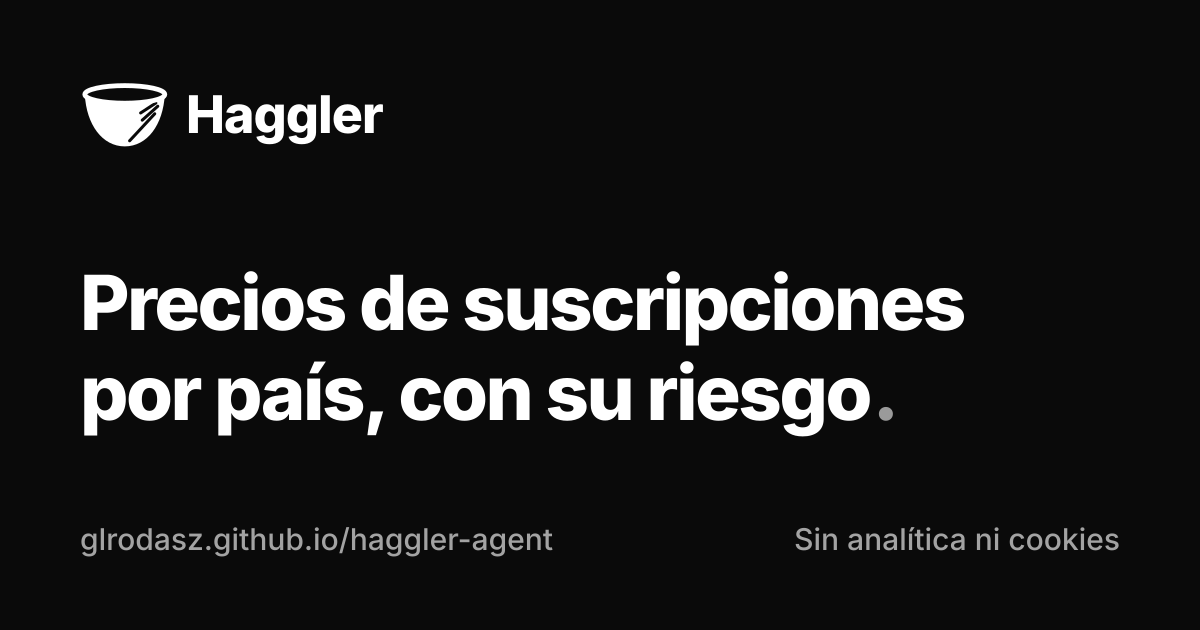
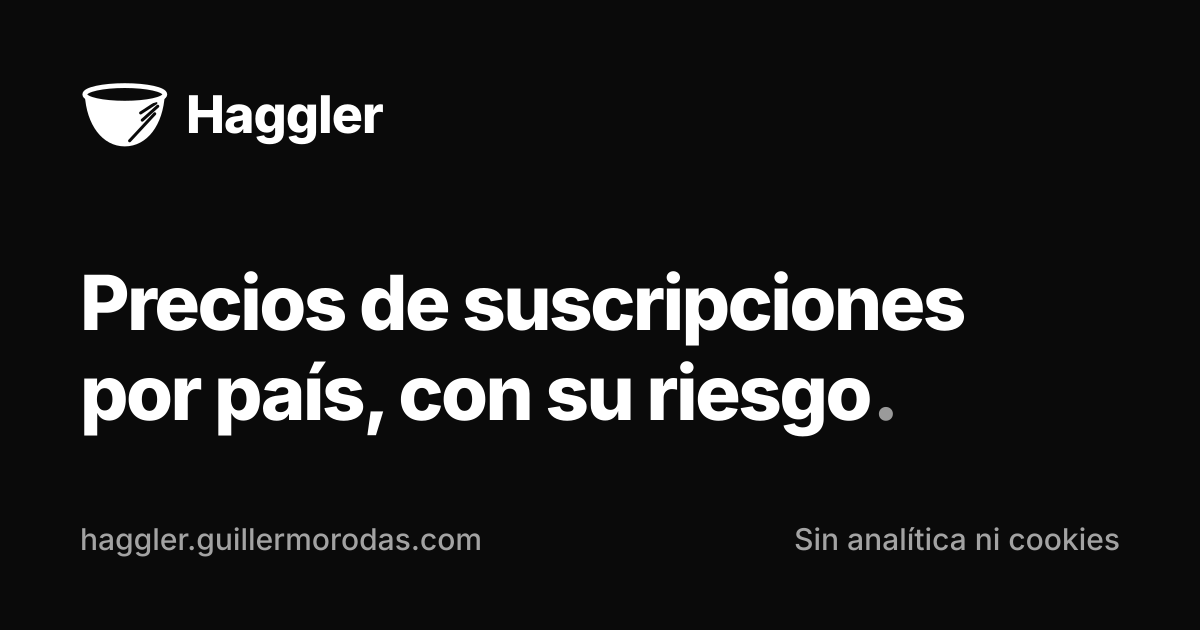
Serve the site from haggler.guillermorodas.com
Astro now defaults to the custom domain at the root; publish.yml keeps
taking the real base path and origin from actions/configure-pages, so it
builds under /haggler-agent/ until the domain is set in Pages settings.
The OG card, READMEs and setup docs point to the new URL.

Claude-Session: https://claude.ai/code/session_01U9mqGAn4YWWH6zhgx6VZWL

Changed region(s): [[0.0617, 0.8444, 0.4625, 0.9048]]

diff --git a/web/src/logic/paths.ts b/web/src/logic/paths.ts
@@ -1,6 +1,7 @@
 /**
- * Internal links. The site is served under a base path on GitHub Pages ("/haggler-agent/"),
- * so every internal href goes through withBase(); hard-coded "/..." links would 404 there.
+ * Internal links. The site can be served under a base path (GitHub Pages without a custom
+ * domain: "/haggler-agent/"), so every internal href goes through withBase(); hard-coded "/..."
+ * links would 404 there.
  * English lives at the root and every other locale under its prefix ("/es/services/"), so
  * links are built per locale with routesFor(); i18n/locale.ts decides the prefix.
  */

diff --git a/docs/SETUP.md b/docs/SETUP.md
@@ -143,9 +143,14 @@ defecto.
 1. **Settings → Pages → Build and deployment → Source: GitHub Actions.**
 2. Eso crea el entorno `github-pages`, que por defecto solo acepta despliegues desde la rama por
    defecto. No hace falta tocarlo.
-3. El sitio queda en `https://glrodasz.github.io/haggler-agent/`. Con dominio propio
-   (Settings → Pages → Custom domain) el workflow detecta solo la nueva URL base
-   (`actions/configure-pages`), no hay que cambiar nada en `web/astro.config.mjs`.
+3. Dominio propio: en el proveedor DNS, un registro `CNAME` `haggler` → `glrodasz.github.io`;
+   luego **Settings → Pages → Custom domain** `haggler.guillermorodas.com` → *Save*, y cuando el
+   certificado esté listo marcar **Enforce HTTPS**. Con *Source: GitHub Actions* no hace falta
+   un archivo `CNAME` en el repositorio.
+4. El sitio queda en `https://haggler.guillermorodas.com/`; `https://glrodasz.github.io/haggler-agent/…`
+   redirige allí (GitHub Pages lo hace solo). El workflow detecta la URL base con
+   `actions/configure-pages`: sin dominio propio construye bajo `/haggler-agent/`, sin tocar
+   `web/astro.config.mjs`.
 
 ## 5. Mergear a `main`
 
@@ -455,7 +460,7 @@ las cuentas borradas desaparecen solas (quedan como `deleted:serviceAccount:…`
 | `publish`: "Aún no hay data/latest/prices.json" | no hay datos versionados en `data/` y no hubo sync: faltan variables (paso 3), se lanzó desde otra rama, o el sync falló (ver el *warning* del job de sync) |
 | `publish`: *warning* "push de data/ falló: No se pudo hacer push de data/" | `main` está protegida (*pull request* obligatorio, *status checks* requeridos…) y la identidad que hace el push no tiene *bypass* (ver §12). El sitio se publica igual con los datos sincronizados (artefacto del job de sync); solo `data/` del repositorio, y con él el historial de `data/changes/`, queda desactualizado hasta que el push vuelva a funcionar |
 | `publish`: *notice* "data/ en PR" | `main` está protegida: publish deja `data/` en la rama `data-sync` (reescrita en cada corrida) y mantiene un PR abierto hacia `main`. Fusiónalo cuando quieras versionar los datos (p. ej. antes de `haggler research review`); el sitio ya se publicó con ellos. Si el aviso es "PR de data/ falló", activa *Settings → Actions → General → Allow GitHub Actions to create and approve pull requests*. Los PR y pushes hechos con `GITHUB_TOKEN` no lanzan `ci` por sí solos (su corrida `pull_request` queda en *Approve and run*), así que publish lanza `ci` con `workflow_dispatch` en `data-sync` y `research-review`: sus checks aparecen en el PR sin aprobar nada. Si faltan, el run de publish muestra el *warning* "ci not dispatched" |
-| `publish`: *warning* "actions/configure-pages falló" | Pages no está habilitado (paso 4); el sitio se construye con la ruta base `/haggler-agent` y no detecta un dominio propio |
+| `publish`: *warning* "actions/configure-pages falló" | Pages no está habilitado (paso 4); el sitio se construye con los valores por defecto de `web/astro.config.mjs` (dominio propio en la raíz) |
 | `publish`: el deploy a Pages falla | Pages no está habilitado con *Source: GitHub Actions* (paso 4), o se lanzó desde una rama que no es `main` |
 | Los workflows programados dejaron de correr | GitHub desactiva los `schedule` de repos públicos tras 60 días sin actividad; reactivarlos en *Actions* |
 | `publish`: *warning* "resumen de paquetes" | `haggler research review --bundles --summary` falló (el log del paso muestra el error); solo falta la línea del resumen, el sitio se publica igual. Reproducirlo en local con `data/` al día (§14) |

diff --git a/web/README.md b/web/README.md
@@ -1,7 +1,7 @@
 # Sitio web de haggler
 
 Sitio estático (Astro 7 + Preact, TypeScript) que publica los precios recogidos por el agente en
-GitHub Pages: <https://glrodasz.github.io/haggler-agent/>. Interfaz en inglés (idioma principal,
+GitHub Pages: <https://haggler.guillermorodas.com/>. Interfaz en inglés (idioma principal,
 sin prefijo), español (`/es/`) y portugués (`/pt/`); ver [Idiomas](#idiomas).
 
 ## Páginas
@@ -59,15 +59,16 @@ npm run sample-data            # no pisa datos reales; usa "-- --force" para ree
 ```bash
 npm ci
 npm run sample-data
-npm run dev       # http://localhost:4321/haggler-agent/
+npm run dev       # http://localhost:4321/
 npm run check     # astro check (tipos)
 npm test          # vitest: lógica del comparador, formato, datos de ejemplo
 npm run build     # genera dist/
 npm run preview
 ```
 
-Variables de entorno para el build: `SITE_URL` (por defecto `https://glrodasz.github.io`) y
-`BASE_PATH` (por defecto `/haggler-agent`; usa `/` para un dominio propio). En CI conviene
+Variables de entorno para el build: `SITE_URL` (por defecto `https://haggler.guillermorodas.com`) y
+`BASE_PATH` (por defecto `/`; usa `/haggler-agent` para servirlo sin dominio propio en
+`glrodasz.github.io`). `publish.yml` las toma de `actions/configure-pages`. En CI conviene
 `ASTRO_TELEMETRY_DISABLED=1`.
 
 ## Lógica

diff --git a/README.md b/README.md
@@ -13,7 +13,7 @@ cheaper offers you can actually get, and at what risk.**
 ![Google ADK](https://img.shields.io/badge/built%20with-Google%20ADK-4285F4.svg)
 ![Gemini on Vertex AI](https://img.shields.io/badge/LLM-Gemini%20on%20Vertex%20AI-8E75B2.svg)
 
-[**Live site**](https://glrodasz.github.io/haggler-agent/) ·
+[**Live site**](https://haggler.guillermorodas.com/) ·
 [How it works](#how-it-works) ·
 [Architecture](#architecture) ·
 [Quickstart](#quickstart) ·
